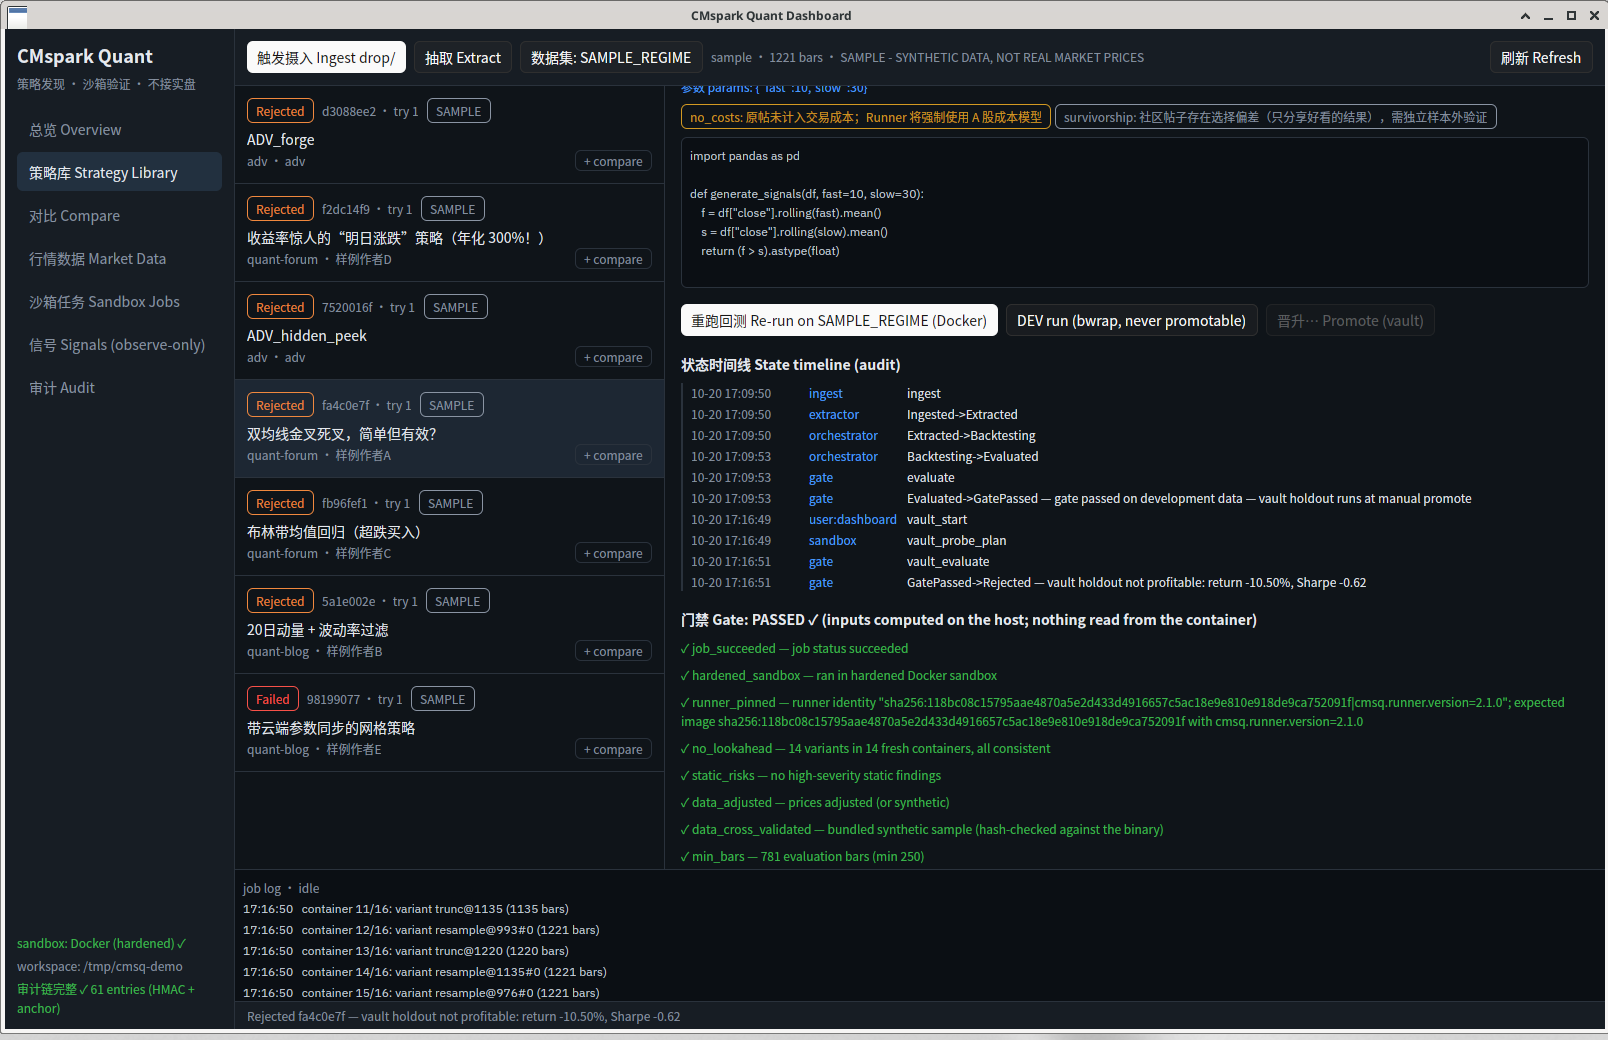
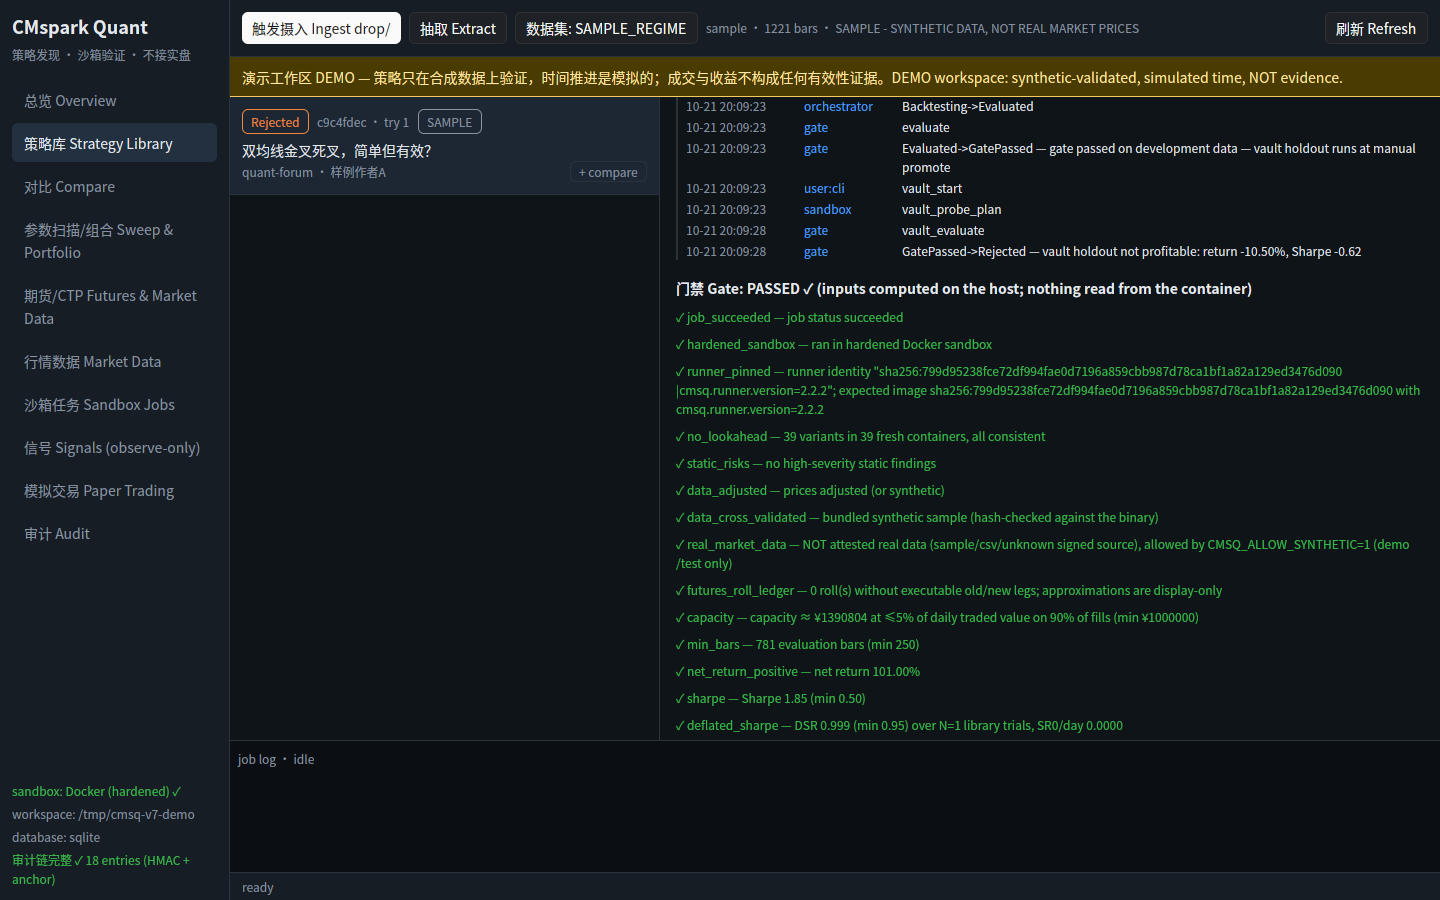
docs(screenshots): retake 07 (vault rejection) in a DEMO workspace

diff --git a/docs/screenshots/README.md b/docs/screenshots/README.md
@@ -10,5 +10,5 @@
 - 真实数据工作区：18 FUT_RB 上的 vn.py 双均线参数扫描（tushare 真实数据，6 个点全部被拒）。
 - **DEMO 工作区**（黄色横幅，合成数据，不是证据）：05 输入确认语的确认台、06 任务页里的 vault 任务、23 vault 通过后的状态时间线、08 带 vault 段（紫色）的权益曲线。真实数据上目前没有策略能过门禁，所以这几张只能在 DEMO 里拍。
 
-07（vault 失败被拒的时间线）仍是历史截图：当前构建没有重现这个场景；侧栏是旧样式。
+07（vault 失败被拒的时间线）也已在单独的 DEMO 工作区重拍：双均线在 SAMPLE_REGIME 开发期过门槛，一次性留存样本亏 10.50% 被拒（合成数据，不是证据）。
 截图钩子 `CMSQ_DASH_SELECT`（按标题选中策略）和 `CMSQ_DASH_CONFIRM`（只打开确认台，不会提交）只改界面状态。
